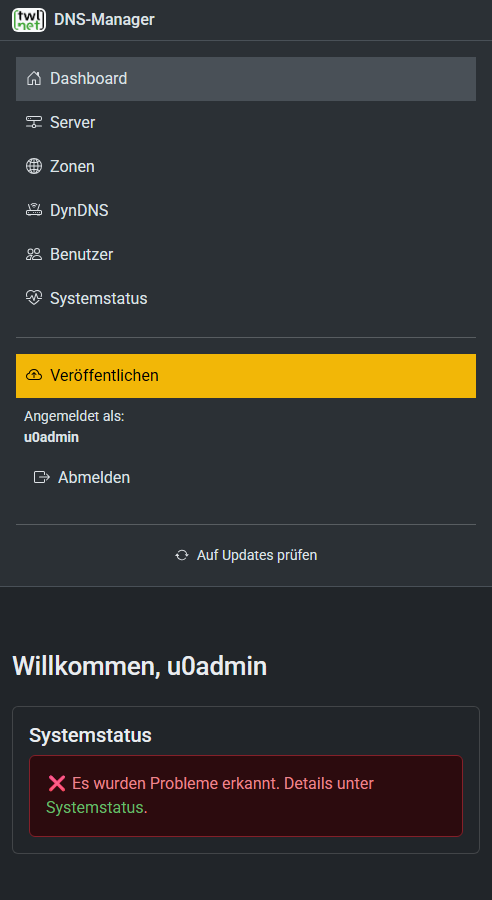
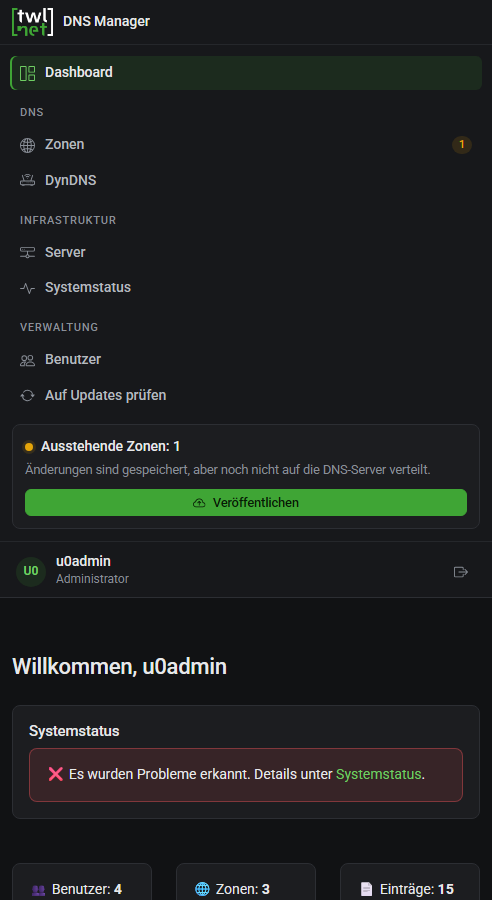
docs(ui): U1 A+ report and screenshots (dark, light, no-JS)

diff --git a/docs/ui/U1_LAYOUT.md b/docs/ui/U1_LAYOUT.md
@@ -1,86 +1,84 @@
-# UI-Modernisierung U1 – Layout-Gerüst
+# UI-Modernisierung U1 – Design-Fundament A+
 
-Stand: 14.11.2026. Umsetzung gemäß Freigabe auf Basis von `main` `5796221` und
-[`docs/UI_GUIDELINES.md`](../UI_GUIDELINES.md).
+Stand: 14.11.2026. Umsetzung der freigegebenen Designvorlage **A+** (Variante A als Grundlage, ergänzt um Elemente aus B)
+gemäß Integrationsplan, Entscheidung D1: PR #80 wird zu „U1 – Design-Fundament A+“ überarbeitet.
 
 **Umfang:**
-- Viewport und responsives Grundlayout;
-- Navigation mit Desktop-Seitenleiste und mobiler Alternative;
-- lokale Bootstrap Icons;
-- heller/dunkler Farbmodus mit Systemvorgabe;
-- einheitliches Login-Layout.
+- Design-Tokens für hell und dunkel;
+- Seitenleiste, Kopfleisten und Original-Branding;
+- Grundstile der verwendeten Bootstrap-Komponenten;
+- Login-Seite.
 
-Seiteninhalte und Fachfunktionen sind unverändert.
+**Funktion und Inhalte der Fachseiten sind unverändert.** Editor-Muster, Live-DIFF, Bausteine und Seitenumbauten folgen
+in U3–U5. Regeln: [`docs/UI_GUIDELINES.md`](../UI_GUIDELINES.md).
 
-## 1. Änderungen
+## 1. Branding
+
+| Datei (unverändert, `web/assets/branding/`) | Einsatz |
+|---|---|
+| `TWLnet_Logo_neg.png` | Seitenleiste und Anmeldung im **Dunkelmodus** |
+| `TWLnet_Logo_CMYK.png` | Seitenleiste und Anmeldung im **Hellmodus** |
+| `TWLnet_Logo_Quadrat_neg.png` | mobile Kopfleiste, dunkel |
+| `TWLnet_Logo_Quadrat_CMYK.png` | mobile Kopfleiste, hell |
+
+**Dateien:**
+- Kopien der Originale aus `Twlnet\Twlnet-Logos\Logo\`, per SHA-256 identisch.
+- Seitenverhältnis bleibt erhalten: Es wird nur Breite bzw. Höhe gesetzt.
+- Es gibt keine Hinterlegung, Umfärbung oder Nachzeichnung.
+
+**Umschaltung je Farbmodus:**
+- Beide Varianten sind im Markup vorhanden; CSS blendet je Farbmodus eine aus (`.logo-on-light` / `.logo-on-dark`).
+- Mit JS folgt die Anzeige `data-bs-theme`, ohne JS der Systemvorgabe.
+- Interaktiv geprüft: dunkel → `_neg`, hell → `_CMYK`.
+
+**Weitere Merkmale:**
+- Markenakzent **`#3FA535`**, aus den Logos verifiziert.
+- Das Logo in der Seitenleiste verlinkt wie bisher die Zeile „by Twilight-Networks“ auf `https://www.twilight-networks.com`. Das Linkziel ist unverändert.
+
+## 2. Änderungen
 
 | Datei | Änderung |
 |---|---|
-| `web/templates/layout.php` | **Kopf:** `viewport`, `theme.js` (blockierend im Kopf), `theme-auto.css`, `<html class="no-js">`.<br>**Seitenleiste** als Bootstrap `offcanvas-lg`: ab lg fest wie bisher; darunter Kopfleiste mit Menü-Schaltfläche und Offcanvas.<br>**Navigation:** Symbole statt Emojis; Skip-Link „Zum Inhalt springen“; `<main id="main">`; Farbmodus-Umschalter (nur mit JS).<br>**Unverändert:** Publish- und Logout-Formulare (Ziel, Felder, CSRF) und alle Linkziele. |
-| `web/templates/layout_footer.php` | schließt `<main>` statt `<div class="content">` |
-| `web/login.php` | `viewport`, Farbmodus, gemeinsame Stylesheets, `lang` der aktiven Sprache statt fest `de`, Klassen statt Inline-Styles, `<label for>`/`id` und `autocomplete`, Schaltfläche in der CI-Farbe. Formular (Methode, Ziel, Felder, CSRF) und Hinweistexte unverändert. |
-| `web/assets/css/custom.css` | **Farbvariablen** (`--dm-*`) für hell, dunkel und dunkel ohne JS (Media Query) statt fester Farben; die Werte des hellen Modus entsprechen den bisherigen.<br>**Layout:** responsiv, Offcanvas-Anpassungen, Darstellung ohne JS (`.no-js`), Anmeldeseite.<br>**Dunkelmodus:** angepasste `.table-light`-Köpfe. |
-| `web/assets/css/theme-auto.css` (neu) | Dark-Regeln von Bootstrap 5.3.3 für `html:not([data-bs-theme])` unter `prefers-color-scheme: dark`. Das ist die Systemvorgabe ohne JavaScript, erzeugt aus `bootstrap.min.css`. |
-| `web/assets/js/theme.js` (neu) | Tauscht `no-js` gegen `js`. Setzt `data-bs-theme` aus gespeicherter Wahl (`localStorage`) oder Systemvorgabe und folgt Änderungen der Systemvorgabe. Umschalter über `data-theme-set`, mit `aria-pressed`. Extern, ohne Inline-Code und ohne `eval`. |
-| `web/assets/icons/bootstrap-icons-sprite.svg` (neu) | Reduziertes SVG-Sprite (14 Symbole, 9 KB) aus `bootstrap-icons@1.11.3`. Das npm-Paket wurde gegen seine sha512-Prüfsumme geprüft; die Symbole sind unverändert übernommen. |
-| `LICENSES/bootstrap-icons.LICENSE.txt` (neu) | MIT-Lizenz von Bootstrap Icons |
-| `web/inc/helpers.php` | Darstellungshelfer `ui_icon()`: Symbol mit `aria-hidden`, die Bedeutung trägt immer sichtbarer Text bzw. `aria-label` |
-| `web/lang/de.php`, `en.php`, `es.php` | 7 neue Schlüssel: `menu_open`, `main_navigation`, `skip_to_content`, `theme_label`, `theme_light`, `theme_dark`, `theme_auto` |
-| `tests/ui/*` | Screenshot-Werkzeug:<br>- Server ohne JavaScript (Router entfernt `<script>`);<br>- Optionen `-ColorScheme dark`, `-NoJs`, `-Only`;<br>- mobil mit 492 CSS-Pixeln (Mindestbreite von Edge headless). |
+| `web/assets/css/custom.css` | Neu aufgebaut als Design-System A+:<br>(1) Tokens hell, dunkel und dunkel ohne JS, abgebildet auf die Bootstrap-Variablen;<br>(2) Grundtypografie, Logo-Umschaltung;<br>(3) Gerüst: Seitenleiste, Navigationsgruppen, Veröffentlichungskasten, Benutzerbereich, Kopfleisten, Arbeitsbereich, No-JS-Darstellung;<br>(4) Grundstile für Schaltflächen, Formulare, Karten, Tabellen (auch `table-light`/`table-warning`), Abzeichen, Hinweise, Modals, Toasts, `text-bg-light`, native Checkboxen;<br>(5) Anmeldeseite;<br>(6) seitenbezogene Breitenklassen unverändert übernommen. |
+| `web/templates/layout.php` | **Seitenleiste:** Original-Logo, Produktzeile mit Version, Navigationsgruppen DNS / Infrastruktur / Verwaltung; „Auf Updates prüfen“ ist in die Gruppe Verwaltung gewandert, Ziel unverändert. Zähler ausstehender Zonen an „Zonen“, Fehlerkennzeichen an „Systemstatus“.<br>**Veröffentlichungskasten:** bestehendes Publish-Formular.<br>**Benutzerbereich:** Avatar-Kürzel, Name, Rolle, bestehendes Logout-Formular; Farbmodus-Umschalter.<br>**Desktop-Kopfleiste:** Pfadangabe, auf der Record-Seite mit Rücklink „Zonen“ (vorhandenes Ziel).<br>**Mobile Kopfleiste:** Quadrat-Logo. |
+| `web/templates/layout_footer.php` | schließt zusätzlich den Arbeitsbereich (`.app-main`) |
+| `web/login.php` | Logo-Paar statt des bisherigen Bildes, Produktzeile, Überschrift „DNS Manager“ nur für Screenreader. Formular und Hinweistexte unverändert. |
+| `web/lang/de.php`, `en.php`, `es.php` | 7 neue Schlüssel: `nav_group_dns`, `nav_group_infrastructure`, `nav_group_admin`, `publish_pending`, `publish_pending_zones`, `publish_pending_hint`, `breadcrumb` |
+| `web/assets/icons/bootstrap-icons-sprite.svg` | 3 weitere Symbole aus `bootstrap-icons@1.11.3`: `grid-1x2`, `activity`, `exclamation-lg` |
+| `web/assets/branding/TWLnet_Logo_*.png` (neu) | vier Original-Logos (siehe 1) |
 
-Nicht geändert:
-- Core-Services, Actions, API, Skripte, Schema, Agent;
-- Seiteninhalte (`web/pages/*`, Formular-Templates);
-- Toasts und Konfiguration.
+Aus der früheren U1-Fassung bleiben unverändert:
+- Viewport, Offcanvas-Navigation auf schmalen Bildschirmen mit No-JS-Darstellung als Block;
+- `theme.js` (Farbmodus, `no-js`/`js`), `theme-auto.css`;
+- `ui_icon()`.
 
-## 2. Verhalten ohne JavaScript
-
-- **Navigation:** Auf schmalen Bildschirmen steht die Seitenleiste als normaler Block über dem Inhalt; die Menü-Schaltfläche ist ausgeblendet. Ab lg bleibt sie unverändert fest.
-- **Farbmodus:** Es gilt die Systemvorgabe über `theme-auto.css` und die `--dm-*`-Variablen; der Umschalter ist ausgeblendet.
-- **Formulare:** Alle Formulare und Links funktionieren unverändert. Nachweis: Die Golden-Basis sendet ohne JavaScript.
+**Bewusst nicht in U1:** eine Statusanzeige in der Kopfleiste. Ein erster Entwurf wertete nur die Diagnose-Übersicht aus und widersprach damit dem Dashboard, das weitere Systemprüfungen einbezieht. Die Anzeige folgt in U5 mit derselben Quelle wie Dashboard und Systemstatus-Seite.
 
 ## 3. Nachweise
 
-**Golden-Vergleich gegen die U0-Basis** `tests/ui/baseline/golden-1e37515.json` (ns1, PHP 8.5.4, MariaDB 11.8.6; Anwendung und Harness `381d1df`):
+**Golden-Vergleich gegen die U0-Basis** `tests/ui/baseline/golden-1e37515.json`:
+- ns1, PHP 8.5.4, MariaDB 11.8.6;
+- Anwendung und Harness `f3953ec`, Ergebnis sha256 `3c1e6878…c0bc10e`.
 
 | | |
 |---|---|
-| Ergebnis | **Exit 0 – keine Vertragsabweichung**: Status, Weiterleitungen, Header, Toasts, Logs, Datenbankzustand, Seitenvertrag (Formulare mit Kodierung, Linkziele) und PHP-Meldungen identisch |
-| identisch | 81 Fälle: alle Actions, Login/Logout, API, alle Weiterleitungen für anonym, alle 403-Antworten, `logout` per GET |
-| nur informativ abweichend | 37 Seitenfälle mit Layout: admin 22, zoneadmin 14, anonyme Login-Seite 1 |
+| Ergebnis | **Exit 0 – keine Vertragsabweichung**. Status, Weiterleitungen, Header, Toasts, Logs, Datenbankzustand, Seitenvertrag (alle Formulare mit Kodierung und Feldern sowie **alle Linkziele**) und PHP-Meldungen sind identisch. |
+| identisch | 81 Fälle: alle Actions, Login/Logout, API, Weiterleitungen, 403-Antworten |
+| nur informativ abweichend | 37 Layout-Seiten (admin 22, zoneadmin 14, Anmeldung 1) |
 | PHP-Meldungen | 15, wie in der Basis (vorbestehend U0-B2/U0-B3), keine neuen |
 
-**Interaktive Prüfung** (eingebauter Browser, 375 × 812 px, Testkopie über SSH-Tunnel):
-- Menü-Schaltfläche öffnet das Offcanvas. Die aktive Seite ist markiert; Publish, Benutzer, Umschalter und Abmelden sind erreichbar.
-- Umschalter „Dunkel“ setzt `data-bs-theme=dark`, speichert `dark` und setzt `aria-pressed` korrekt. „Systemvorgabe“ entfernt die Speicherung.
-- Keine horizontale Verbreiterung der Seite (`scrollWidth` = 375); breite Tabellen scrollen innerhalb des Inhalts.
-- Ohne JavaScript: `<html class="no-js">`, keine Skripte, Navigation statisch sichtbar, Menü-Schaltfläche und Umschalter ausgeblendet.
+**Visuelle Prüfung:** 45 Aufnahmen in [`docs/ui/screenshots/u1/`](screenshots/u1/) (3,2 MB), Edge 157 headless, Desktop 1440 px, mobil 492 px.
+- **dunkel:** alle 26 Seitenansichten (Suffix `-dark`);
+- **hell:** 13 Kernseiten;
+- **ohne JavaScript, dunkel:** 6 Ansichten (Suffix `-dark-nojs`).
 
-## 4. Screenshots
+**Interaktiv** (eingebauter Browser über SSH-Tunnel): Farbmodus-Umschalter setzt `data-bs-theme`, `aria-pressed` und die Speicherung; „Systemvorgabe“ entfernt sie. Die Logos wechseln korrekt zwischen `_neg` und `_CMYK`, auch in der mobilen Kopfleiste.
 
-Ablage: [`docs/ui/screenshots/u1/`](screenshots/u1/), 45 Aufnahmen, 3,1 MB, Anwendung `3dc3f2d`.
-- Web-Code identisch mit dem Head.
-- Der Fix der Skript-Entfernung im Screenshot-Router (`serve_router.php`) wurde während des Laufs in die Testkopie eingespielt und ist inhaltsgleich committet.
-- Edge 157 headless; Desktop 1440 px, mobil 492 px.
+Das Öffnen des Offcanvas-Menüs wurde in diesem Durchgang nicht erneut per Klick geprüft (Browseransicht ausgeblendet). Der Mechanismus (`offcanvas-lg`, Menü-Schaltfläche, No-JS-Block) ist unverändert gegenüber der früheren, interaktiv geprüften Fassung; die No-JS-Darstellung belegen die Aufnahmen.
 
-| Satz | Aufnahmen |
-|---|---|
-| hell, alle Seiten wie U0 | 26 (gleiche Namen wie `screenshots/u0/` – direkter Vergleich) |
-| dunkel (Suffix `-dark`) | Login (Desktop/mobil), Dashboard (Desktop/mobil), Zonen, Records (Desktop/mobil), Record-Anlage, Server, Benutzer, Systemstatus, zoneadmin-Zonen |
-| ohne JavaScript (Suffix `-nojs`) | Login mobil, Dashboard (Desktop/mobil), Zonen mobil, Records mobil, Zonen-Anlage; Dashboard mobil zusätzlich dunkel (`-dark-nojs`) |
+## 4. Offene Punkte für die folgenden Pakete
 
-Beispiele: [Records hell](screenshots/u1/admin-records.png) ·
-[Records dunkel](screenshots/u1/admin-records-dark.png) ·
-[Records mobil](screenshots/u1/admin-records-mobile.png) ·
-[Dashboard mobil ohne JS, dunkel](screenshots/u1/admin-dashboard-mobile-dark-nojs.png) ·
-[Login mobil dunkel](screenshots/u1/anon-login-mobile-dark.png).
-
-## 5. Befunde aus U1
-
-| ID | Befund | Paket |
-|---|---|---|
-| U1-B1 | **Toasts ohne JavaScript unsichtbar** (vorbestehend): Die Session-Toasts werden ohne Klasse `show` ausgegeben und erst von `global.js` eingeblendet. Ohne JavaScript sieht man keine Rückmeldung nach Aktionen. Die Action selbst wirkt; Toast-Inhalt und Session sind unverändert. | U3 (Meldungs-Baustein mit serverseitiger Darstellung) |
-| U1-B2 | Werkzeug: Edge headless rendert mindestens 492 CSS-Pixel breit (schmaler wird nur das Bild beschnitten) und erzeugt mit abgeschaltetem JavaScript keine Screenshots. Gelöst über Breite 492 und den No-JS-Server. Die U0-Mobilaufnahmen sind dadurch auf 390 px beschnitten, zeigen den damaligen Zustand (feste Seitenleiste) aber korrekt. | – |
-
-Die U0-Befunde B1–B9 sind von U1 nicht berührt und bleiben ihren Paketen zugeordnet. U0-B5 (nicht responsiv) ist
-mit U1 behoben; U0-B6 (403 ohne Layout) bleibt für U3.
+- **U1-B1** (vorbestehend): Toasts ohne JavaScript unsichtbar → U3.
+- Verbleibende Emojis in den Seiteninhalten, z. B. Statuszeichen und Symbole in Tabellen → mit den Bausteinen bzw. Seitenumbauten in U3–U5.
+- Dashboard nach Designvorlage (Kennzahlen, Server, Zonen, Warnungen, ausstehende Veröffentlichungen; Record-Anzahl je Zone nach dem gesonderten Core-Lese-PR, D5) → U5.
+- Record-Verwaltung mit Editor und Live-DIFF (D3/D4/D8) → U4.

diff --git a/docs/ARCHITECTURE_CORE.md b/docs/ARCHITECTURE_CORE.md
@@ -515,3 +515,4 @@ Verbleibendes Restrisiko: Eine bereits laufende Anfrage endet nach einem Rechtee
 | 14.11.2026 | UI U0 | Grundlage der UI-Modernisierung ohne UI-Codeänderung: `docs/UI_GUIDELINES.md`, `docs/UI_ROLE_MATRIX.md`, `docs/ui/U0_BESTANDSAUFNAHME.md` mit Screenshots, versionierte Golden-Basis `tests/ui` (118 Fälle, Basis `golden-1e37515.json`); Befunde U0-B1–B9 den Paketen U1–U5 zugeordnet |
 | 14.11.2026 | UI U0 | PR #79 gemergt (`5796221`, Tree `ec9dec0`): U0 abgeschlossen; Golden-Basis `tests/ui/baseline/golden-1e37515.json` (mit K1/K2). U1 (Layout-Gerüst) freigegeben |
 | 14.11.2026 | UI U1 | Layout-Gerüst: Viewport, responsive Navigation (Offcanvas, ohne JS als Block), Bootstrap Icons lokal, Farbmodus hell/dunkel mit Systemvorgabe, Login-Layout; Golden-Vergleich ohne Vertragsabweichung (81 identisch, 37 nur Inhalt); Bericht `docs/ui/U1_LAYOUT.md` |
+| 14.11.2026 | UI U1 | Designentscheidung A+ (Variante A mit Editor, kompakter Tabelle und Zonenauswahl aus B; Live-DIFF verbindlich); Integrationsplan D1–D8 freigegeben (D5: Record-Anzahl je Zone über gesonderten Core-Lese-PR). PR #80 zu „U1 – Design-Fundament A+“ überarbeitet: Tokens hell/dunkel, Seitenleiste mit Gruppen, Original-Logos, Grundstile; Golden-Vergleich ohne Vertragsabweichung |
